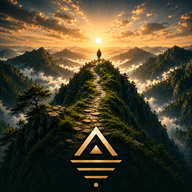
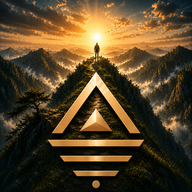
icons3

diff --git a/index.html b/index.html
@@ -5,7 +5,7 @@
     <meta name="viewport" content="width=device-width, initial-scale=1.0" />
     <meta name="theme-color" content="#0d1410" />
     <meta name="description" content="Presence. Embodiment. Participation." />
-    <link rel="icon" type="image/svg+xml" href="/icon.svg" />
+    <link rel="icon" type="image/png" href="/icon-192.png" />
     <title>Ascend</title>
     <style>html,body{margin:0;padding:0;background:#080c08;}</style>
   </head>